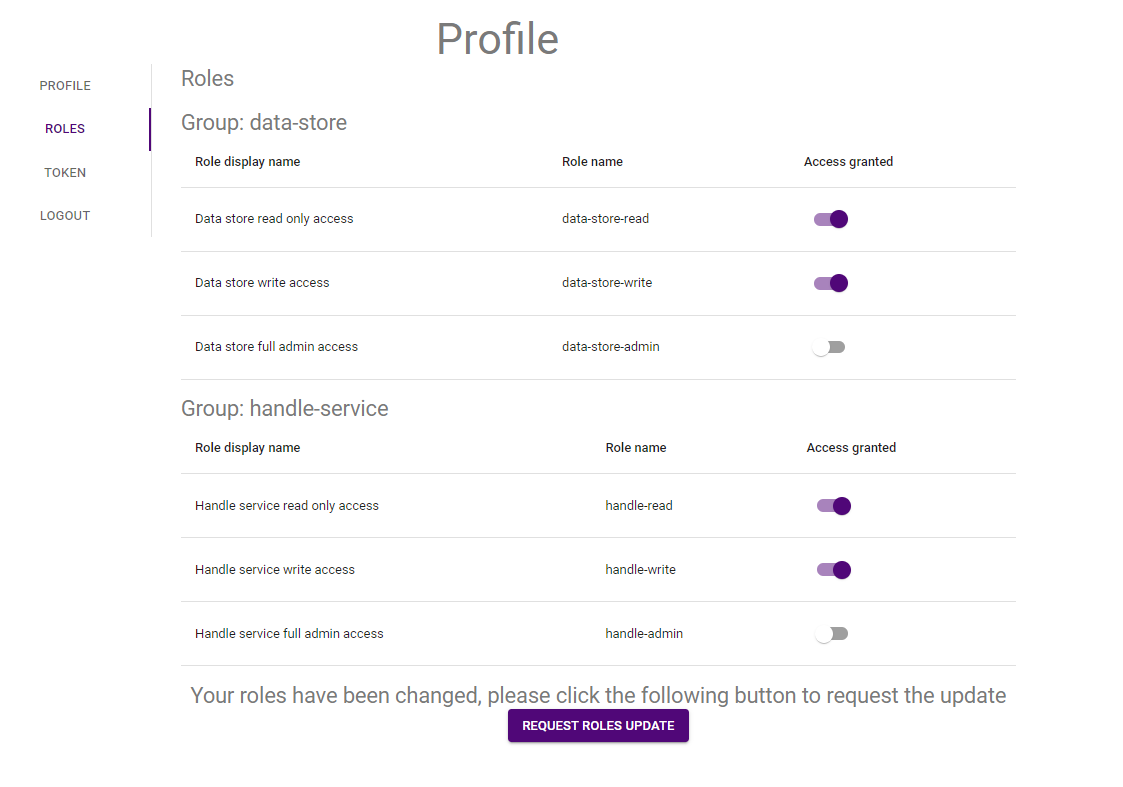
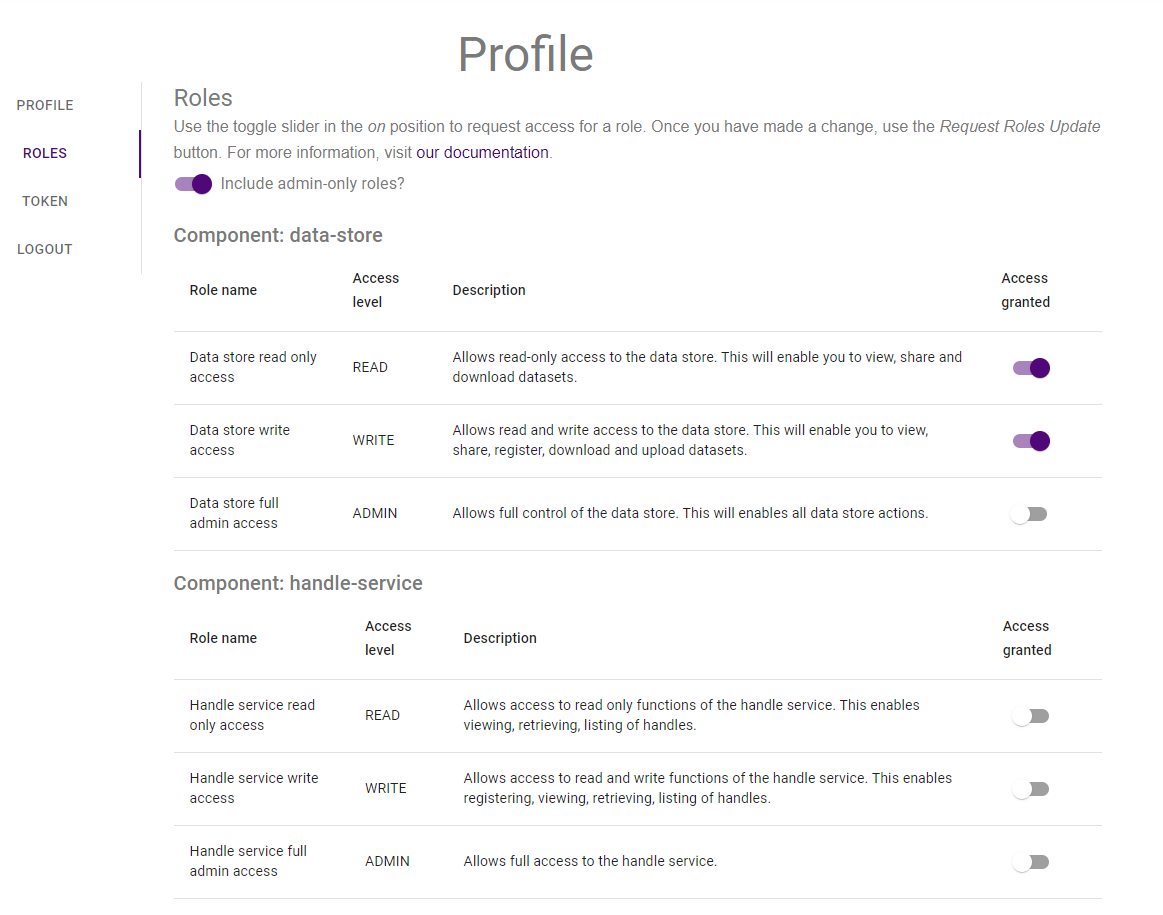
Updated requesting access to show new info on user roles

diff --git a/information-system/getting-started-is/requesting-access-is.md b/information-system/getting-started-is/requesting-access-is.md
@@ -21,27 +21,36 @@ ____
 </details>
 
 ## User Roles
-Currently users will need to select **Roles** to be able to perform tasks. Once you are on the RRAP M&DS IS [landing page](https://www.rrap-is.com){:target="\_blank"} select **Roles** under your user menu item (silhouette of a person) from the top right of page. From the **Roles** page users can request levels of access (read only, read and write, administration) to particular parts of the system
+Users will need to select **Roles** to be able to perform tasks. Once users are on the RRAP M&DS IS [landing page](https://www.rrap-is.com){:target="\_blank"}, they will need to select **Roles** under their user profile (silhouette of a person <img src="../../assets/images/access/profileIcon.png" alt="drawing" width="15"/>) from the top right of page. From the **Roles** page users can request levels of access (read only, read and write, administration) to particular parts of the system. 
 
 |                      Application                       |         Role         |                         Access Level                          |
 | :----------------------------------------------------: | :------------------: | :-----------------------------------------------------------: |
-|                     **Data Store**                     |   data-store-read    |             reading/viewing and searching dataset             |
-|                                                        |   data-store-write   | write/generate new dataset records and uploading to the store |
-|                                                        |   data-store-admin   |         administration, adding and removing users etc         |
-| [**Handle Service**](../digital-object-identifiers.md){:target="\_blank"} | handle-service-read  |                           read only                           |
-|                                                        | handle-service-write |    write, modifying old and adding new handle identifiers     |
-|                                                        | handle-service-admin |                             admin                             |
+|                     **Data Store**                     |   READ               | Allows read-only access to the Data Store. This will enable users to view, share and download datasets.             |
+|                                                        |   WRITE              | Allows read and write access to the Data Store. This will enable users to view, share, register, download and upload datasets |
+|                                                        |   ADMIN              | Allows full control of the Data Store.                        |
+| [**Handle Service**](../digital-object-identifiers.md){:target="\_blank"} | READ  | Acces to read only functions of the handle service. Users can view, retieve and list handles.                          |
+|                                                        | WRITE                | Access to read and write functions of the handle service. Users can register, view, retrieve and list handles.     |
+|                                                        | ADMIN                |  Full access to the handle service                             |
 
-Below is an image of the **Profile** page with **Roles** option selected. Request access to roles by sliding the appropriate slider to the right
+Below is an image of the **Profile** page with **Roles** option selected. Request access to roles, including admin roles, by sliding the appropriate toggle slider to the right.
 
 |                                    User Roles                                    |
 | :------------------------------------------------------------------------------: |
 | <img src="../../assets/images/access/user_roles.png" alt="drawing" width="600"/> |
 
-Once you have completed selecting roles click the **Request Roles Update** button
+Once users have completed selecting roles they click the **Request Roles Update** button. 
 
-|                                 User Roles Request                                  |
-| :---------------------------------------------------------------------------------: |
-| <img src="../../assets/images/access/roles_request.png" alt="drawing" width="600"/> |
+|                                   User Roles Request                                     |
+| :------------------------------------------------------------------------------:         |
+| <img src="../../assets/images/access/requestRolesUpdate.png" alt="drawing" width="600"/> |
+
+
+
+
+Users then confirm the request and can be taken back to the to the RRAP M&DS IS home page by clicking the **Return Home** button.
+
+|                                 User Roles Confirmation                                  |
+| :---------------------------------------------------------------------------------:      |
+| <img src="../../assets/images/access/confirmRolesUpdate.png" alt="drawing" width="600"/> |
 
 {% include notes.html content="We are intending to identify users without roles applied and provide a <strong>Welcome</strong> page with further instructions to requests roles." %}
